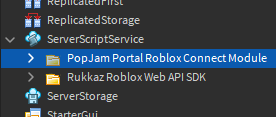
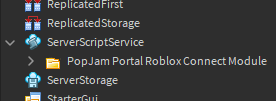
Include web api dependency, update readme and add installation instructions

diff --git a/readme.md b/readme.md
@@ -2,36 +2,48 @@
 
 This module enables your game to host PopJam jam sessions. It facilitates acquisition of an event setup code from a player, usually a PopJam moderator. Using the [PopJam Portal Roblox Web API SDK](https://github.com/SuperAwesomeLTD/pj-portal-roblox-web-api-sdk/tree/PopJam-rebrand), this setup code is validated. Once validated, a server is reserved. The details are then submitted for use during the event.
 
-## Dependencies
+[![Download](img/download.png)](https://github.com/SuperAwesomeLTD/pj-portal-roblox-connect-module/releases)
 
-The module depends on the [PopJam Portal Roblox Web API SDK](https://github.com/SuperAwesomeLTD/pj-portal-roblox-web-api-sdk/tree/PopJam-rebrand). It must be available ServerScriptService.
+**Note:** Portions of the code make references to Rukkaz - don't worry, this module is still for PopJam!
 
 ## Installation
 
+**tl;dr: Put the Folder in ServerScriptService**. Read on if you don't know how to do this:
+
 1. Open the Experience in Roblox Studio.
-2. Under Home &rarr; Game Settings &rarr; Security, enable **Allow HTTP Requests** if it is not already on. This is required for the web API, which is a dependency.
-   - You can also enter this into the command bar: `game:GetService("HttpService").HttpEnabled = true`
-3. Insert the model file into the place using one of the following methods:
-   - Take the Model on Roblox.com, and insert it using the [Toolbox](https://developer.roblox.com/en-us/resources/studio/Toolbox).
-   - Download the model file from the releases section, then right-click ServerScriptService and select **Insert from File...**
-4. Using the [Explorer](https://developer.roblox.com/en-us/resources/studio/Explorer), ensure the module is a child of [ServerScriptService](https://developer.roblox.com/en-us/api-reference/class/ServerScriptService).
+2. Under the **Home** tab, click **Game Settings**. Security, enable **Allow HTTP Requests** if it is not already on. This is required for the web API, which is a dependency.
+   ![Allowing HTTP requests in Game Settings](img/allow-http-requests.png)
+   - For unpublished games, enter this into the Command Bar instead:
+   ```lua
+game:GetService("HttpService").HttpEnabled = true
+```
+3. Insert the model into the place using one of the following:
+   - If you download the model file from [releases](https://github.com/SuperAwesomeLTD/pj-portal-roblox-connect-module/releases/latest): right-click ServerScriptService and select **Insert from File...**
+   - If you took the Model on Roblox.com: insert it using the [Toolbox](https://developer.roblox.com/en-us/resources/studio/Toolbox)
+4. Using the [Explorer](https://developer.roblox.com/en-us/resources/studio/Explorer), drag the "PopJam Portal Roblox Connect Module" Folder into [ServerScriptService](https://developer.roblox.com/en-us/api-reference/class/ServerScriptService).
+   ![Installation](img/install.png)
+5. That's it! Continue to "Testing" below.
 
-Your ServerScriptService should now contain everything you need! :-)
+More details about installation can be found in the [INSTALL](src/RukkazEventHost/INSTALL.lua) ModuleScript.
 
-![Installation](img/install.png)
+## Testing
 
-## Test
-
-1. Press **Play** (F5) in Roblox Studio.
-2. Type `/pj setup` into the chat. Note: If the place does not have chat available, you must create some way for a player to have the server call `RukkazEventHost:setupCodePrompt(player)`
+1. Under the **Test** tab, click **Start** (F7)<sup>&dagger;</sup>
+   ![Starting a test server](img/start-test.png)
+2. Type `/pj setup` into the chat.
    ![Chat Command](img/pj-setup.png)
-3. The setup window will appear as below:
+3. The setup window should appear as below:
+   ![Setup Window](img/ui.png)
+4. Enter an arbitrary 6-character setup code, which should be rejected: "The setup code you provided doesn't match any event."
+5. Publish the game and repeat the process in a live Roblox game server.
 
-![Setup Window](img/ui.png)
+&dagger;Don't click Play (F5): sometimes when testing in this way, the local player arrives before the module initializes. This can cause friction when testing.
 
-Note: Sometimes when testing in Studio, the local player enters before the module can move things around, e.g. the client module into StarterPlayerScripts. This may cause some friction when testing - see `RukkazEventHost:main()`.
+## Dependencies
+
+The dependencies of this module are included within it, which is only the [PopJam Portal Roblox Web API SDK](https://github.com/SuperAwesomeLTD/pj-portal-roblox-web-api-sdk/tree/PopJam-rebrand).
 
 ## Development
 
-- Built using [Rojo](https://github.com/rojo-rbx/rojo) 6. The main project file is [default.project.json](default.project.json).
+- Built using [Rojo 6](https://github.com/rojo-rbx/rojo). The main project file is [default.project.json](default.project.json).
 - [selene](https://github.com/Kampfkarren/selene) is used as a linter. The files [selene.toml](selene.toml) and [roblox.toml](roblox.toml) are used by this.
